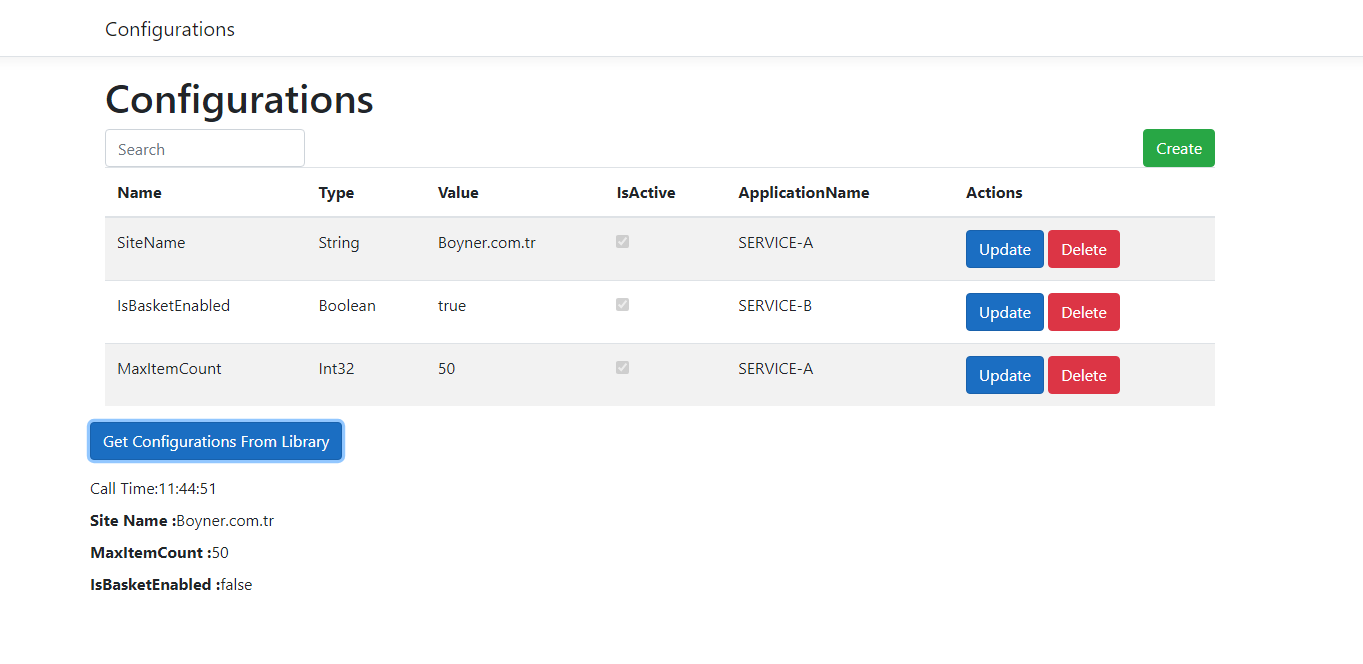
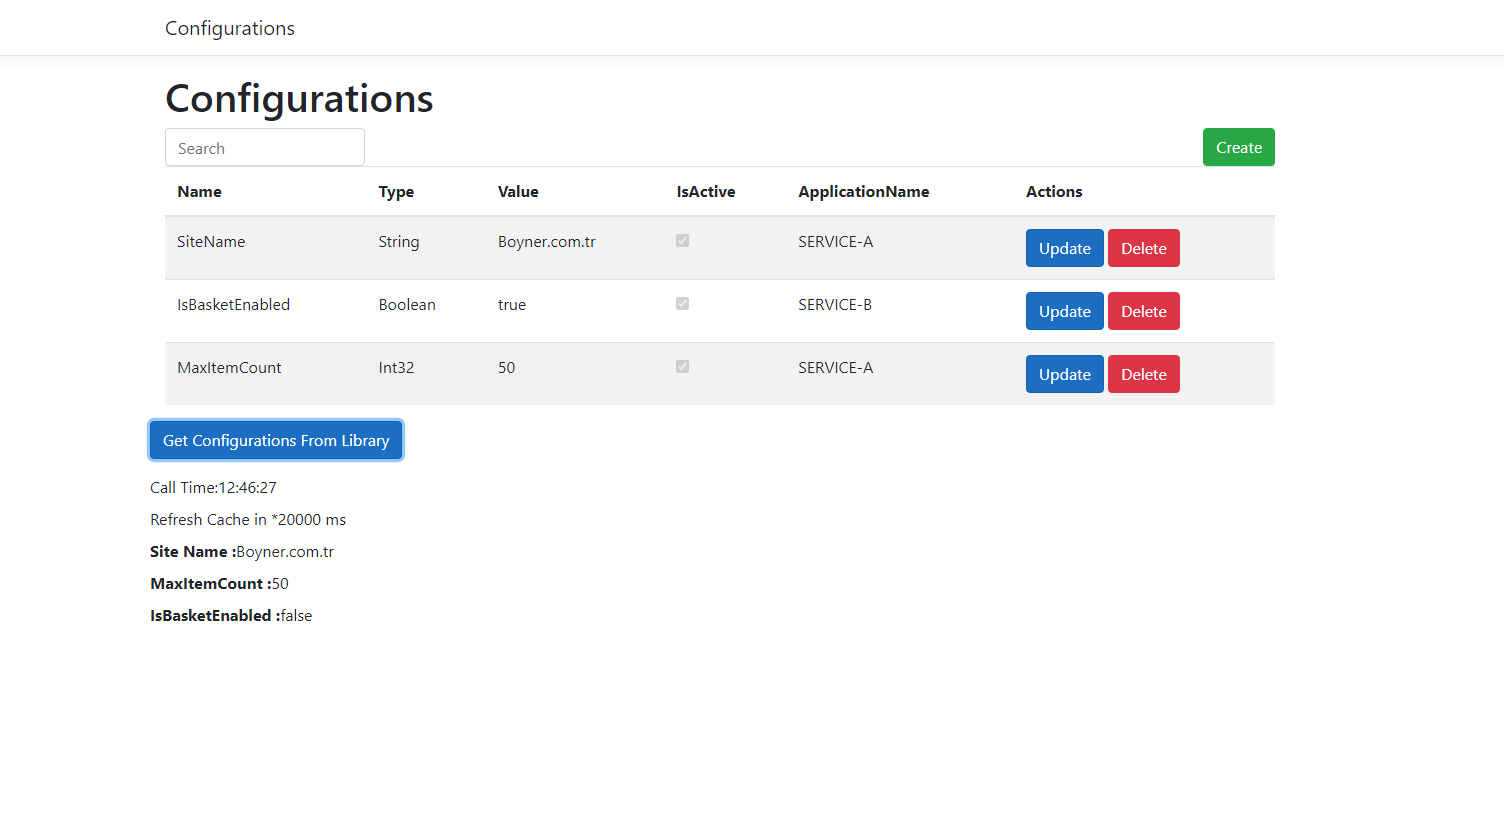
Cache and db compare code added

diff --git a/src/Libraries/DynamicConfiguration.ConfigurationReader/Implementation/SqlServerConfigurationProvider.cs b/src/Libraries/DynamicConfiguration.ConfigurationReader/Implementation/SqlServerConfigurationProvider.cs
@@ -3,6 +3,7 @@ using DynamicConfiguration.ConfigurationReader.Interface;
 using DynamicConfiguration.ConfigurationReader.Model;
 using DynamicConfiguration.Core.Entities;
 using Microsoft.Extensions.Caching.Memory;
+using Newtonsoft.Json;
 using System;
 using System.Collections.Generic;
 using System.Data.SqlClient;
@@ -14,7 +15,7 @@ namespace DynamicConfiguration.ConfigurationReader.Implementation
 {
     public class SqlServerConfigurationProvider : IDynamicConfigurationProvider
     {
-        private const string CacheKey = "BeymenConfigurations";
+        private const string CacheKeyPrefix = "DynamicConfigurations";
         private readonly IMemoryCache _memoryCache;
         private readonly Timer _timer;
         private readonly DynamicConfigurationProviderOptions _options;
@@ -31,7 +32,7 @@ namespace DynamicConfiguration.ConfigurationReader.Implementation
 
         public async Task<T> GetValue<T>(string key)
         {
-            var config = await GetSettingsAsync(key);
+            var config = await GetSettingsFromCacheAsync(key);
             if (config == null)
             {
                 //In this part, an error can be thrown or a log record can be made to the db.
@@ -64,10 +65,16 @@ namespace DynamicConfiguration.ConfigurationReader.Implementation
             {
                 using var sqlConnection = new SqlConnection(_options.ConnectionString);
 
-                var result = await sqlConnection.QueryAsync<Configuration>("SELECT * FROM Configurations where ApplicationName=@ApplicationName and IsActive=1",
-                    new { ApplicationName = new DbString { Value = _options.ApplicationName } });
+                var result = (await sqlConnection.QueryAsync<Configuration>("SELECT * FROM Configurations where ApplicationName=@ApplicationName and IsActive=1",
+                    new { ApplicationName = new DbString { Value = _options.ApplicationName } })).ToList();
 
-                _memoryCache.Set(CacheKey, result);
+                var cachedResult = _memoryCache.Get<List<Configuration>>($"{CacheKeyPrefix}_{_options.ApplicationName}");
+
+                //Update cache if there is something added or changed.
+                if (JsonConvert.SerializeObject(result) != JsonConvert.SerializeObject(cachedResult))
+                {
+                    _memoryCache.Set($"{CacheKeyPrefix}_{_options.ApplicationName}", result);
+                }
             }
             catch (Exception ex)
             {
@@ -75,29 +82,9 @@ namespace DynamicConfiguration.ConfigurationReader.Implementation
             }
         }
 
-        private async Task<Configuration> GetSettingsAsync(string key)
+        private async Task<Configuration> GetSettingsFromCacheAsync(string key)
         {
-            var configuration = new Configuration();
-            try
-            {
-                using var sqlConnection = new SqlConnection(_options.ConnectionString);
-
-                configuration = (await sqlConnection.QueryAsync<Configuration>
-                    ("SELECT * FROM Configurations where ApplicationName=@ApplicationName and Name=@Name and IsActive=1",
-                    new
-                    {
-                        ApplicationName = new DbString { Value = _options.ApplicationName },
-                        Name = new DbString { Value = key }
-                    })).FirstOrDefault();
-
-                return configuration;
-            }
-            catch
-            {
-                configuration = _memoryCache.Get<List<Configuration>>(CacheKey).FirstOrDefault(c => c.Name == key);
-            }
-
-            return configuration;
+            return _memoryCache.Get<List<Configuration>>($"{CacheKeyPrefix}_{_options.ApplicationName}").FirstOrDefault(c => c.Name == key);
         }
     }
 }

diff --git a/src/Presentation/DynamicConfiguration.Web/Controllers/HomeController.cs b/src/Presentation/DynamicConfiguration.Web/Controllers/HomeController.cs
@@ -4,20 +4,25 @@ using DynamicConfiguration.Application.Configurations.Queries;
 using DynamicConfiguration.ConfigurationReader.Interface;
 using DynamicConfiguration.Web.Models;
 using Microsoft.AspNetCore.Mvc;
+using Microsoft.Extensions.Configuration;
 using System.Threading.Tasks;
 
 namespace DynamicConfiguration.Web.Controllers
 {
     public class HomeController : BaseController
     {
-        private readonly IDynamicConfigurationProvider _beymenConfigurationProvider;
+        private readonly IDynamicConfigurationProvider _dynamicConfigurationProvider;
         private readonly IMapper _mapper;
+        private readonly IConfiguration _configuration;
 
-        public HomeController(IDynamicConfigurationProvider beymenConfigurationProvider,
-            IMapper mapper)
+        public HomeController(
+            IDynamicConfigurationProvider beymenConfigurationProvider,
+            IMapper mapper,
+            IConfiguration configuration)
         {
-            _beymenConfigurationProvider = beymenConfigurationProvider;
+            _dynamicConfigurationProvider = beymenConfigurationProvider;
             _mapper = mapper;
+            _configuration = configuration;
         }
 
         [HttpGet]
@@ -83,9 +88,10 @@ namespace DynamicConfiguration.Web.Controllers
         {
             var configurations = new ConfigurationsFromLibrary
             {
-                SiteName = await _beymenConfigurationProvider.GetValue<string>("SiteName"),
-                MaxItemCount = await _beymenConfigurationProvider.GetValue<int>("MaxItemCount"),
-                IsBasketEnabled = await _beymenConfigurationProvider.GetValue<bool>("IsBasketEnabled")
+                SiteName = await _dynamicConfigurationProvider.GetValue<string>("SiteName"),
+                MaxItemCount = await _dynamicConfigurationProvider.GetValue<int>("MaxItemCount"),
+                IsBasketEnabled = await _dynamicConfigurationProvider.GetValue<bool>("IsBasketEnabled"),
+                RefreshTimerIntervalInMs = _configuration.GetSection("ConfigurationSettings:RefreshTimerIntervalInMs").Value
             };
 
             return Json(configurations);

diff --git a/src/Presentation/DynamicConfiguration.Web/Models/ConfigurationsFromLibrary.cs b/src/Presentation/DynamicConfiguration.Web/Models/ConfigurationsFromLibrary.cs
@@ -5,5 +5,6 @@
         public string SiteName { get; set; }
         public int MaxItemCount { get; set; }
         public bool IsBasketEnabled { get; set; }
+        public string RefreshTimerIntervalInMs { get; set; }
     }
 }

diff --git a/src/Libraries/DynamicConfiguration.ConfigurationReader/Interface/IDynamicConfigurationProvider.cs b/src/Libraries/DynamicConfiguration.ConfigurationReader/Interface/IDynamicConfigurationProvider.cs
@@ -4,7 +4,6 @@ namespace DynamicConfiguration.ConfigurationReader.Interface
 {
     public interface IDynamicConfigurationProvider
     {
-
         Task<T> GetValue<T>(string key);
     }
 }
